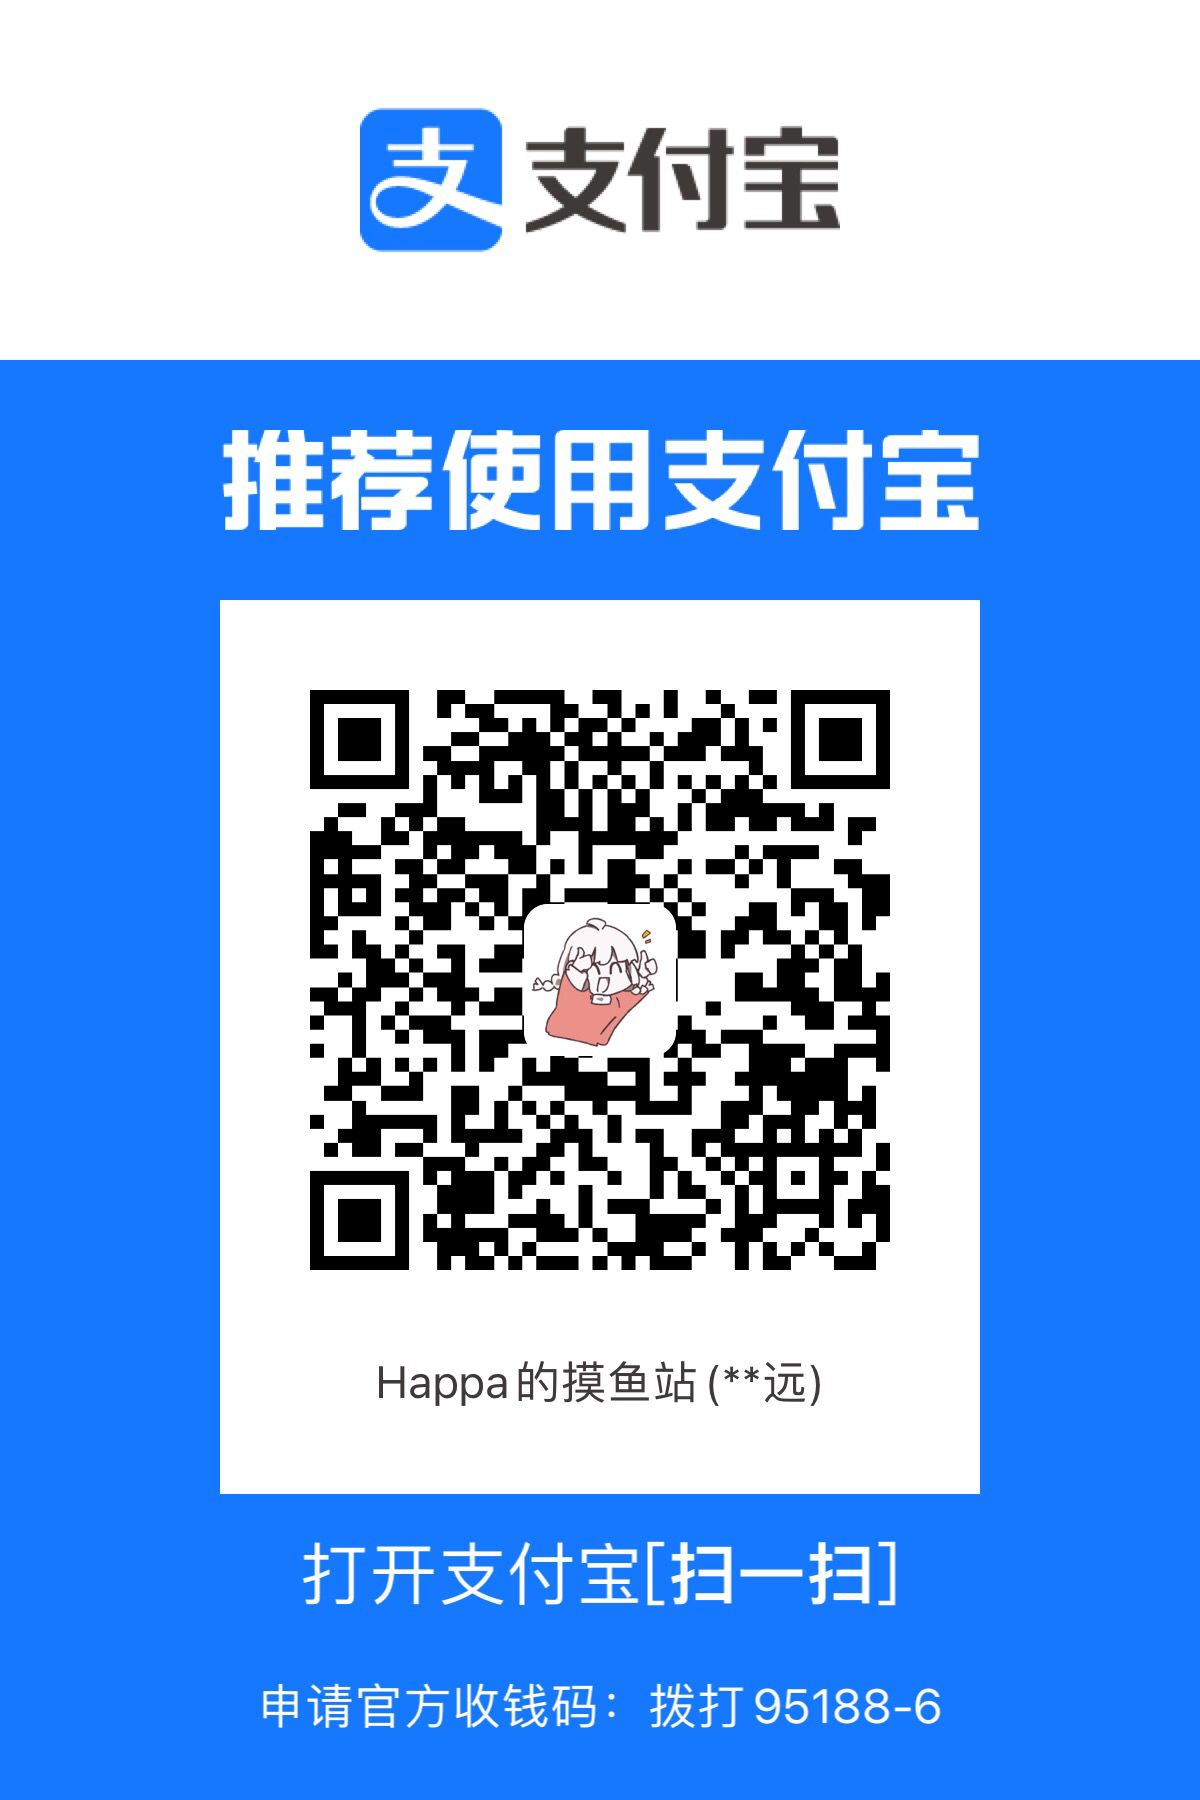
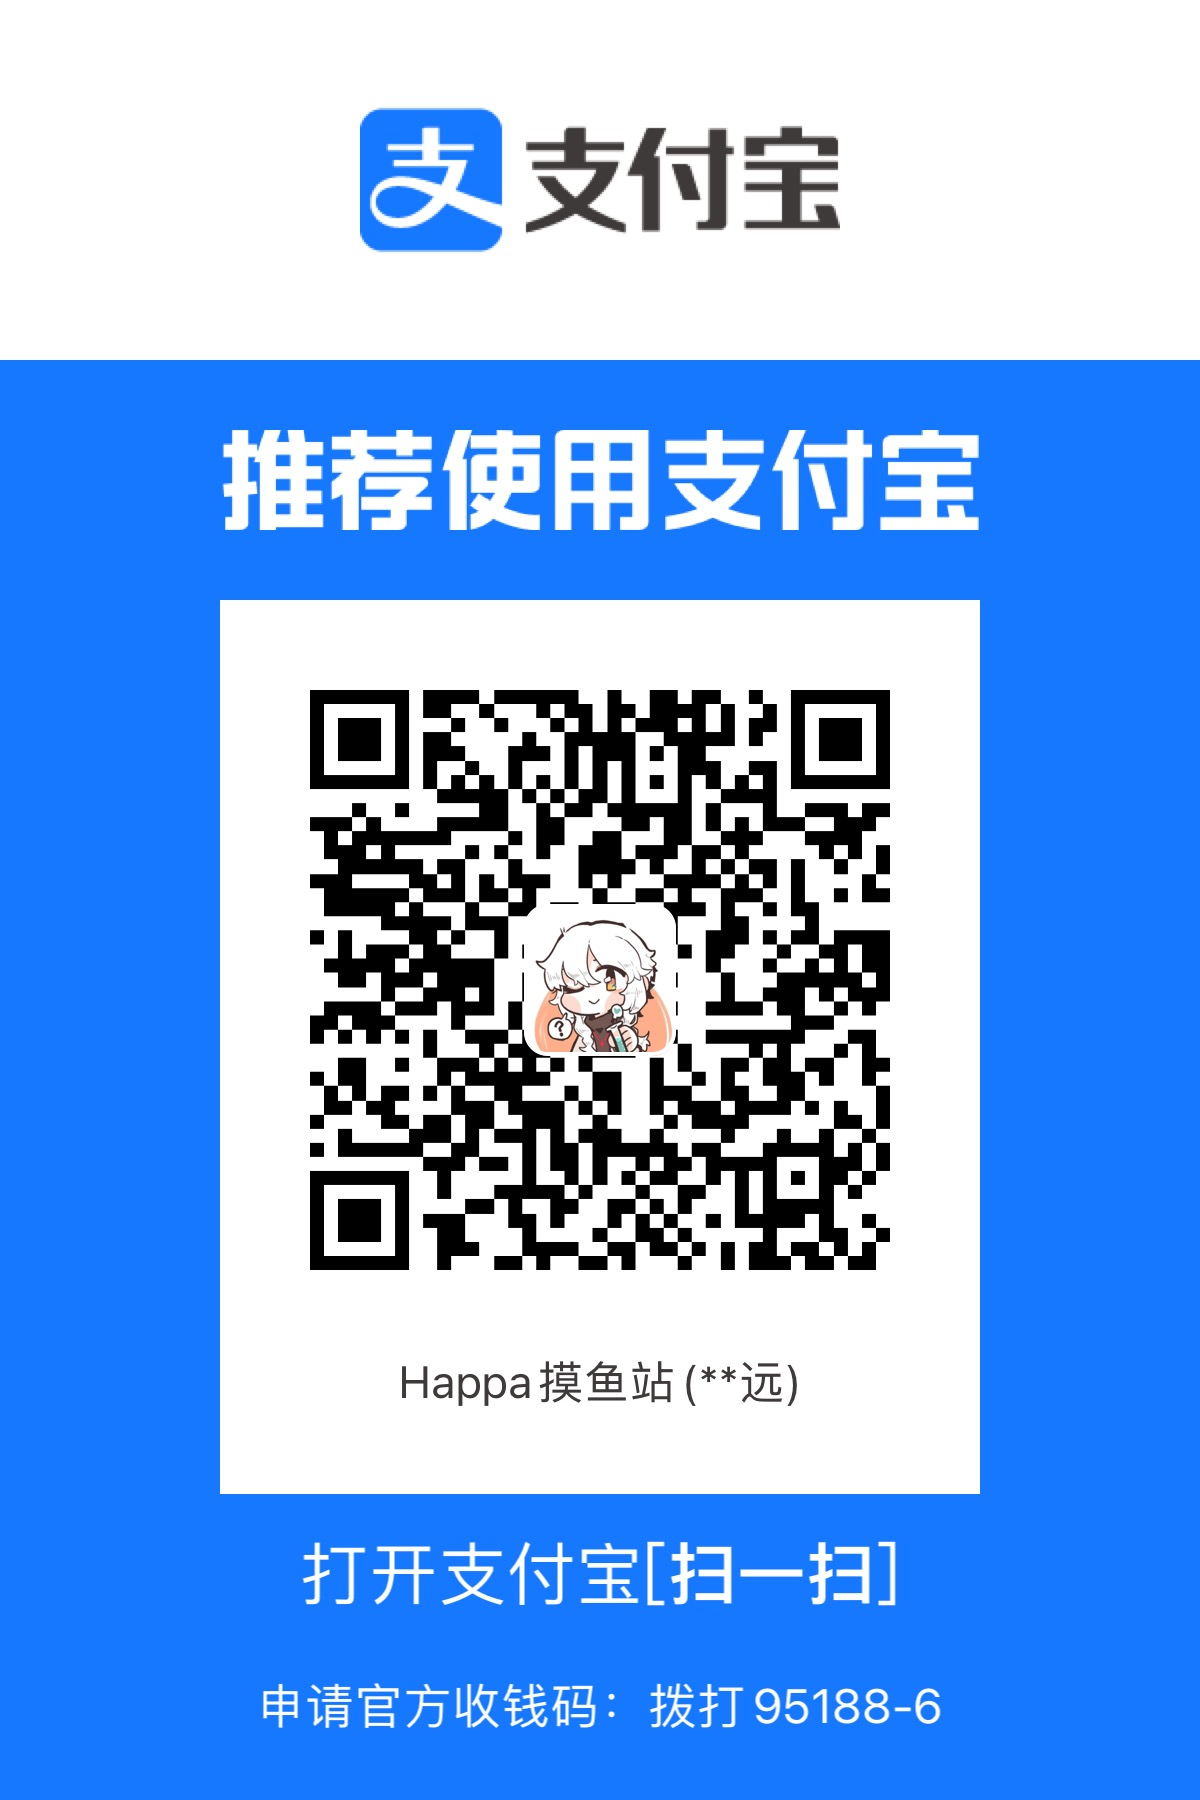
Add files via upload

Changed region(s): [[0.2467, 0.3733, 0.74, 0.7156], [0.3083, 0.7467, 0.6783, 0.7778]]

diff --git a/index.html b/index.html
@@ -21,12 +21,12 @@
 				<!-- Header -->
 					<header id="header">
 						<div class="logo">
-							<img src="./images/g.png" style="height: 5.5rem;width: 5.5rem;">
+							<img src="./images/happpa.jpg" style="height: 5.5rem;width: 5.5rem;">
 						</div>
 						<div class="content">
 							<div class="inner">
 								<h1>Happa</h1>
-								<p>你所热爱的就是你的生活</p>
+								<p>晚点晚安</p>
 							</div>
 						</div>
 						<nav>
@@ -46,7 +46,7 @@
 						<!-- TOS -->
 							<article id="tos">
 								<h2 class="major">服务条款</h2>
-								<p>由于使用非官方应用造成的一切损失（包括但不限于封号）与站长无关，请自行承担风险。  此页面提供的数据来源于网络且仅供为个人学习、研究或者欣赏作为目的，您需要在合法范围内使用数据。否则我们有权停止向你提供服务，且不承担因法律允许使用范围外产生的连带责任。</p>
+								<p>由于使用非官方应用造成的一切损失（包括但不限于封号）与站长无关，请自行承担风险。Happa提供的数据来源于网络且仅供为个人学习、研究或者欣赏作为目的，您需要在合法范围内使用数据。否则我们有权停止向你提供服务，且不承担因法律允许使用范围外产生的连带责任。</p>
 							</article>
 						<!--DOC -->
 							<article id="doc">
@@ -66,7 +66,6 @@
 								<h2 class="major">Contact</h2>
 								<h>欢迎用下列方式联系我吖</h><p></p>
 								<ul class="icons">
-									<li><a href="https://space.bilibili.com/471721908?spm_id_from=333.337.0.0"><span class="label"><?xml version="1.0" ?><svg viewBox="-8 -8 40 40" xmlns="http://www.w3.org/2000/svg"><path d="M0 0h24v24H0z" fill="none"></path><path d="M7.172 2.757 10.414 6h3.171l3.243-3.242a1 1 0 0 1 1.415 1.415L16.414 6H18.5A3.5 3.5 0 0 1 22 9.5v8a3.5 3.5 0 0 1-3.5 3.5h-13A3.5 3.5 0 0 1 2 17.5v-8A3.5 3.5 0 0 1 5.5 6h2.085L5.757 4.171a1 1 0 0 1 1.415-1.415zM18.5 8h-13a1.5 1.5 0 0 0-1.493 1.356L4 9.5v8a1.5 1.5 0 0 0 1.356 1.493L5.5 19h13a1.5 1.5 0 0 0 1.493-1.356L20 17.5v-8A1.5 1.5 0 0 0 18.5 8zM8 11a1 1 0 0 1 1 1v2a1 1 0 0 1-2 0v-2a1 1 0 0 1 1-1zm8 0a1 1 0 0 1 1 1v2a1 1 0 0 1-2 0v-2a1 1 0 0 1 1-1z" fill="#ffffff" class="fill-000000"></path></svg></span></a></li>
 									<li><a href="https://qun.qq.com/qqweb/qunpro/share?_wv=3&_wwv=128&appChannel=share&inviteCode=1W4uEWp&from=181074&biz=ka"><span class="label"><svg viewBox="-8 -8 40 40" xmlns="http://www.w3.org/2000/svg"><path d="M0 0h24v24H0z" fill="none"></path><path d="M19.913 14.529a31.977 31.977 0 0 0-.675-1.886l-.91-2.246c0-.026.012-.468.012-.696C18.34 5.86 16.507 2 12 2S5.66 5.86 5.66 9.7c0 .229.011.671.012.697l-.91 2.246a32.777 32.777 0 0 0-.675 1.886c-.86 2.737-.581 3.87-.369 3.895.455.054 1.771-2.06 1.771-2.06 0 1.224.637 2.822 2.016 3.976-.515.157-1.147.399-1.554.695-.365.267-.319.54-.253.65.289.481 4.955.307 6.303.157 1.347.15 6.014.324 6.302-.158.066-.11.112-.382-.253-.649-.407-.296-1.039-.538-1.555-.696 1.379-1.153 2.016-2.751 2.016-3.976 0 0 1.316 2.115 1.771 2.06.212-.025.49-1.157-.37-3.894" fill="#ffffff" class="fill-000000"></path></svg></span></a></li>
 									<a href="mailto:develophappa@outlook.com">我的邮箱：develophappa@outlook.com</a>
 									
